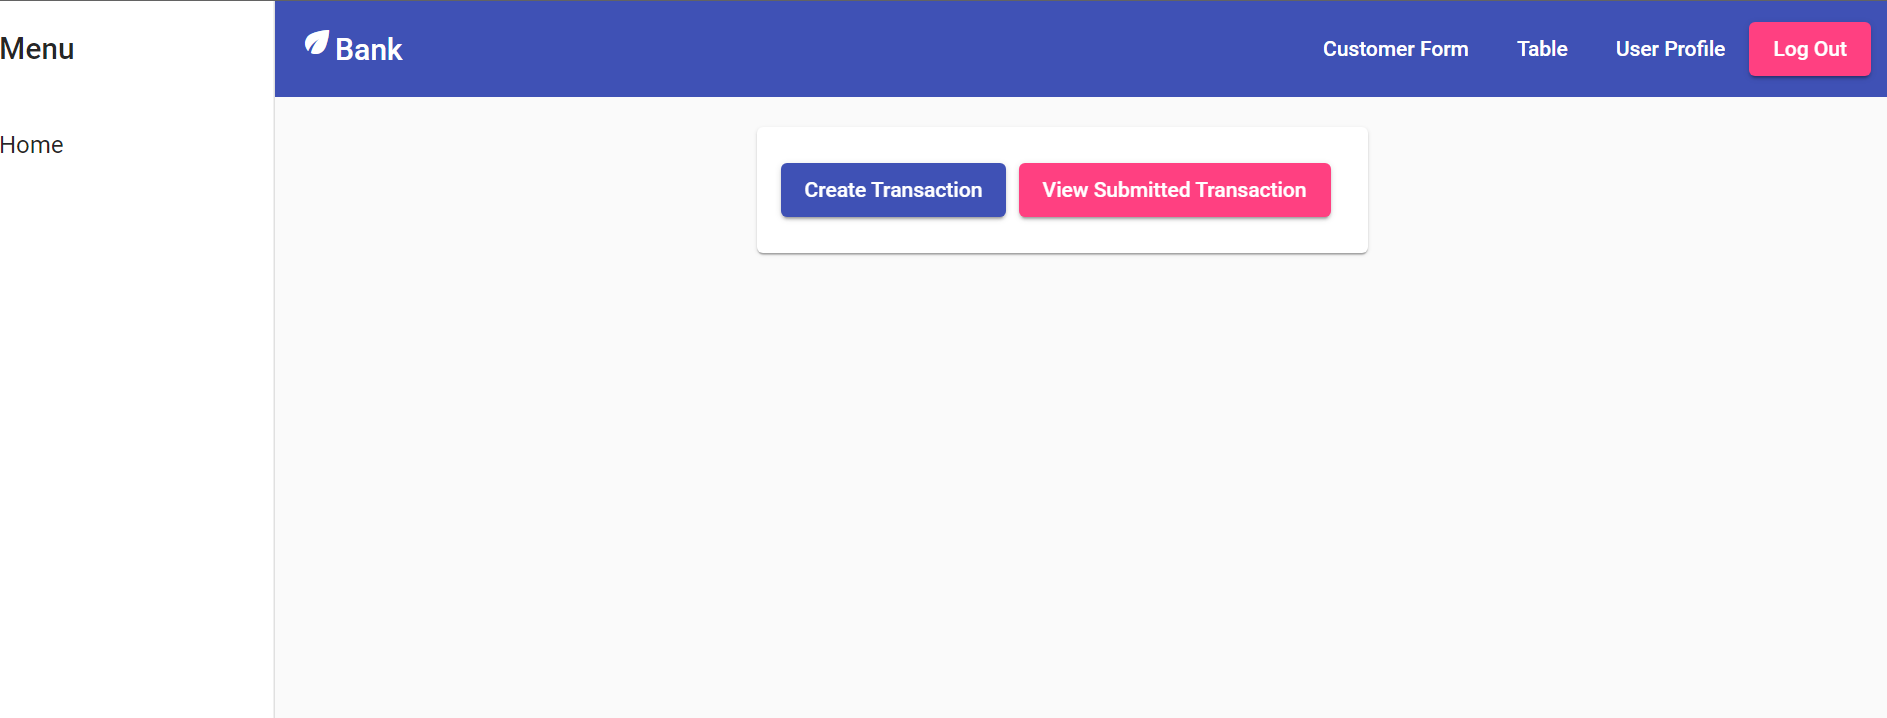
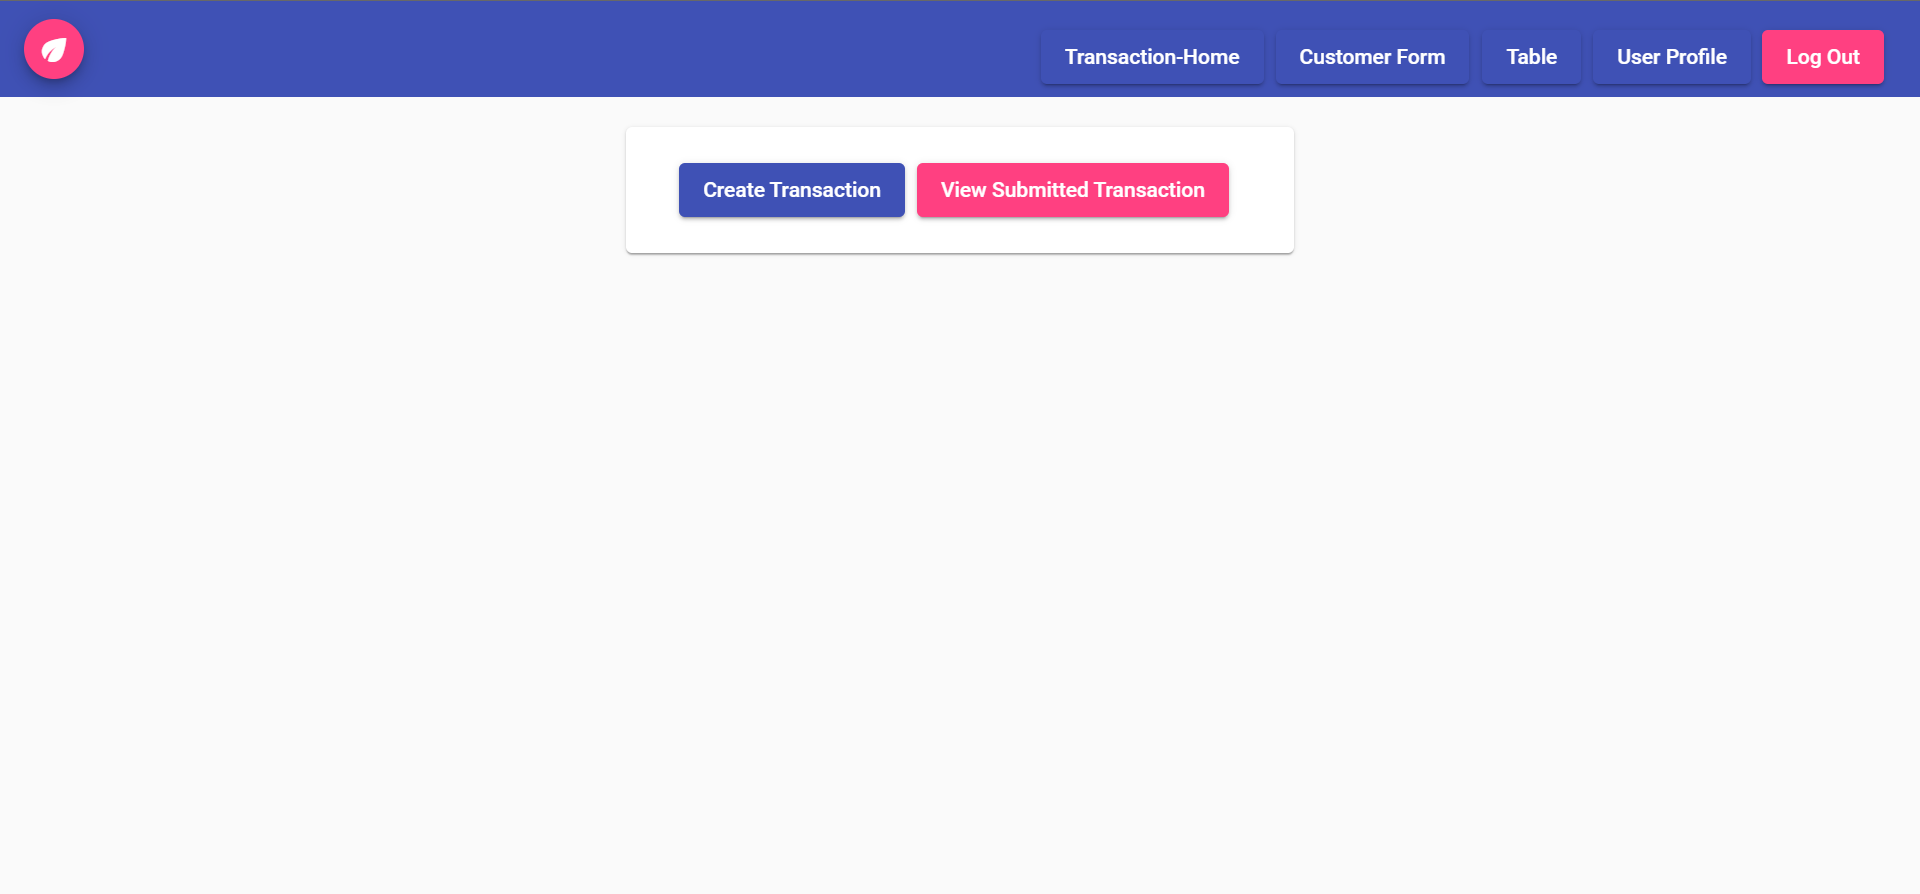
images updates

Changed region(s): [[0.0, 0.0, 1.0, 0.1532], [0.3381, 0.1838, 0.7069, 0.3064], [0.0, 0.1838, 0.0307, 0.2145]]

diff --git a/README.md b/README.md
@@ -18,3 +18,5 @@ Run `ng build` to build the project. The build artifacts will be stored in the `
 ![login-page](/src/assets/img.png?raw=true "home page")
 ![login-page](/src/assets/img_1.png?raw=true "login page")
 ![login-page](/src/assets/img_2.png?raw=true "transaction page")
+![login-page](/src/assets/img_3.png?raw=true "customer form")
+![login-page](/src/assets/img_4.png?raw=true "customer form")
